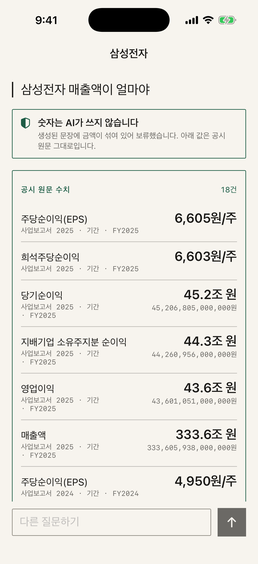
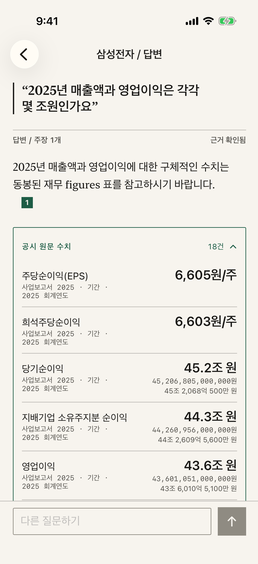
docs: recapture the walkthrough from the current app

diff --git a/docs/index.html b/docs/index.html
@@ -49,9 +49,8 @@
           No live API calls, credentials, analytics, or user data are involved.
         </p>
         <p class="demo-disclosure capture-scope">
-          Captured August 2026 with the original eight-company reference corpus.
-          The locally qualified corpus reached 18 companies on September 9, 2026;
-          these recordings remain an honest snapshot of the earlier release.
+          Captured October 3, 2026 with the current 18-company corpus.
+          Gemini Flash-Lite wrote the explanations shown.
         </p>
       </div>
 
@@ -62,7 +61,7 @@
               src="screenshots/walkthrough_poster.png"
               width="282"
               height="584"
-              alt="Recorded Filing Digest flow: browse companies, filter, open a digest, ask a question, and inspect a cited answer"
+              alt="Recorded Filing Digest flow: browse companies, filter, open a digest, ask a question, read a cited answer, and open its filing evidence"
             >
           </div>
         </div>
@@ -97,7 +96,7 @@
                 width="282"
                 height="584"
                 loading="lazy"
-                alt="Recorded core product walkthrough from company browsing through a cited answer"
+                alt="Recorded core product walkthrough from company browsing through a cited answer and its filing evidence"
               >
             </div>
           </div>
@@ -136,8 +135,8 @@
             aria-pressed="false"
           >Play answer states</button>
           <figcaption>
-            <span>FAIL-CLOSED STATES</span>
-            Cited → blocked → no results
+            <span>ANSWER STATES</span>
+            Cited → filing figures → no results
           </figcaption>
         </figure>
 
@@ -192,7 +191,7 @@
                   width="258"
                   height="564"
                   loading="lazy"
-                  alt="Digest screen for Hyundai Motor showing structured revenue and profit figures"
+                  alt="Digest screen for Samsung Electronics showing structured revenue and profit figures"
                 >
               </div>
             </div>

diff --git a/docs/walkthrough.js b/docs/walkthrough.js
@@ -18,7 +18,7 @@ const copy={
 '.hero-actions a:nth-child(1)':'사용 흐름 보기',
 '.hero-actions a:nth-child(2)':'저장소 살펴보기',
 '.demo-disclosure':'실제 앱 사용 장면을 녹화한 읽기 전용 데모입니다. 실시간 API 호출 없이 동작하며, 인증 정보·분석 도구·사용자 데이터를 사용하지 않습니다.',
-'.capture-scope':'2026년 8월, 초기 8개 회사 기준 화면입니다. 로컬에서 검증한 데이터는 2026년 9월 9일 18개 회사로 늘어났으며, 이 녹화는 당시 공개 버전을 그대로 보여줍니다.',
+'.capture-scope':'2026년 10월 3일, 현재 18개 회사 기준으로 촬영했습니다. 화면의 설명은 Gemini Flash-Lite가 작성했습니다.',
 '.hero-device figcaption':'구현된 SwiftUI 앱에서 촬영했습니다',
 '.facts div:nth-child(1) span':'한국과 미국의 공시',
 '.facts div:nth-child(2) span':'한국어·영어 요약',
@@ -29,7 +29,7 @@ const copy={
 '#walkthrough .eyebrow':'01 / 사용 흐름',
 '#walkthrough .section-heading p:last-child':'수집된 회사 목록을 살펴보고, 재무 수치를 읽고, 질문을 던집니다. 답변에 붙은 인용을 따라가면 근거가 된 공시 발췌문과 원문을 확인할 수 있습니다.',
 '.demo-card:nth-child(1) figcaption':'<span>기본 사용 흐름</span>회사 선택 → 요약 → 질문 → 확인',
-'.demo-card:nth-child(2) figcaption':'<span>근거가 부족할 때</span>인용 답변 → 설명 차단 → 검색 결과 없음',
+'.demo-card:nth-child(2) figcaption':'<span>답변 상태</span>인용 답변 → 공시 원문 수치 → 근거 없음',
 '.flow-notes li:nth-child(1) strong':'수집된 회사 살펴보기',
 '.flow-notes li:nth-child(1) p':'질문하기 전에 어떤 회사의 공시가 있는지 확인합니다.',
 '.flow-notes li:nth-child(2) strong':'요약과 수치 읽기',

diff --git a/backend/tests/test_portfolio_demo.py b/backend/tests/test_portfolio_demo.py
@@ -31,8 +31,7 @@ def test_demo_is_a_disclosed_static_product_walkthrough() -> None:
 
     assert "read-only portfolio demo" in html.lower()
     assert "no live api calls" in html.lower()
-    assert "original eight-company reference corpus" in html.lower()
-    assert "reached 18 companies on september 9, 2026" in html.lower()
+    assert "captured october 3, 2026 with the current 18-company corpus" in html.lower()
     assert "https://filing-agent.vercel.app" in html
     assert "main-content" in parser.element_ids
     assert "screenshots/walkthrough_poster.png" in parser.image_sources

diff --git a/docs/PROJECT_HANDOFF.md b/docs/PROJECT_HANDOFF.md
@@ -135,3 +135,10 @@ the dated entries that followed. Git history has the full text.
   - The local `backend/.env` still has unused `SOLAR_BASE_URL` and `SOLAR_MODEL` lines; they are ignored.
   - The walkthrough recapture is unblocked but not yet done.
 - Next step: Recapture the walkthrough screens and GIFs.
+
+## Walkthrough recaptured · 2026-10-03
+
+- What changed: All eight walkthrough screens, both GIFs and both posters were recaptured from the current app against the real backend and the 18-company corpus, with Gemini Flash-Lite writing the explanations. The core GIF now ends on the evidence sheet. The capture note, captions and alt text in `docs/index.html` and `docs/walkthrough.js` match.
+- Decisions and why: The second GIF is labelled "Cited → filing figures → no results". The number guard blocked the probe question once over the API but not during capture, so no blocked screen is shown and the caption no longer claims one.
+- Open issues: Captures come from `XCUIScreen` screenshots, which don't draw the Dynamic Island that the old images had. Filing Agent's `slice/README.md` and `release/pages.py`, and the owner's portfolio README, still say "Solar".
+- Next step: Decide whether to update the remaining "Solar" mentions outside this repo.
